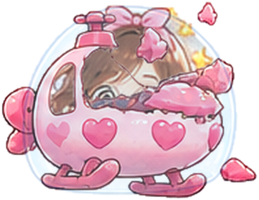
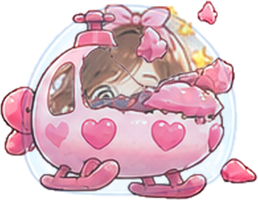
v2 캐릭터 다듬기: 만들기 팝업 선택 표시, 달리기·포즈 크기 통일, 줄타기 손 위치 맞춤, 헬기 떨림 제거

diff --git a/common/charv2.js b/common/charv2.js
@@ -16,8 +16,8 @@
   function load(look) {
     if (!LOOKS[look] || atlas[look]) return;
     const a = atlas[look] = { img: new Image(), f: null, ok: false };
-    fetch(`${base}common/chars/${look}.json?v=20261023t`).then((r) => r.json()).then((j) => {
-      a.f = j.frames; a.img.onload = () => { a.ok = true; }; a.img.src = `${base}common/chars/${look}.webp?v=20261023t`;
+    fetch(`${base}common/chars/${look}.json?v=20261023u`).then((r) => r.json()).then((j) => {
+      a.f = j.frames; a.img.onload = () => { a.ok = true; }; a.img.src = `${base}common/chars/${look}.webp?v=20261023u`;
     }).catch(() => { /* 그림이 없으면 기본 그림으로 */ });
   }
   const get = (look, name) => { const a = atlas[look]; return a && a.ok && a.f[name] ? [a, a.f[name]] : null; };
@@ -31,15 +31,17 @@
     // 발이 (0,0)에 오게 그림. h: 몸 높이(px). anchor 'hang'이면 손(줄 잡는 곳)이 hangTop에 옴
     draw(g, look, name, o = {}) {
       const hit = get(look, name); if (!hit) return false;
-      const [a, [x, y, w, h, ox, oy, cw, ch]] = hit;
+      const [a, [x, y, w, h, ox, oy, cw, ch, hand]] = hit;
       const s = (o.h || 118) / (BODY_H * ch);
+      // 매달리기: 손 x를 handX(기본 0)에 맞춰서 줄 끝과 손이 붙어 보이게
+      const dx = o.anchor === 'hang' && hand != null ? (o.handX || 0) - (hand - cw / 2) * s : 0;
       // 매달리기: 그림 맨 위(줄 잡은 손)가 hangTop에 오게
       const top = o.anchor === 'hang' ? (o.hangTop != null ? o.hangTop : -100) - oy * s : -FOOT * ch * s;
       g.save();
       if (o.alpha != null) g.globalAlpha *= o.alpha;
       if (o.rot) g.rotate(o.rot);
       if (o.flip) g.scale(-1, 1);
-      g.drawImage(a.img, x, y, w, h, -cw * s / 2 + ox * s, top + oy * s, w * s, h * s);
+      g.drawImage(a.img, x, y, w, h, dx - cw * s / 2 + ox * s, top + oy * s, w * s, h * s);
       g.restore();
       return true;
     },

diff --git a/index.html b/index.html
@@ -105,8 +105,8 @@
       <div class="looks">
         <button class="look" data-look="eunyu"><img src="skyhook/assets/eunyu_base.jpg" alt=""><span>은유 스타일</span></button>
         <button class="look" data-look="eungyeol"><img src="skyhook/assets/eungyeol_base.jpg" alt=""><span>은결 스타일</span></button>
-        <button class="look v2" data-look="eunyu2"><img src="skyhook/assets/eunyu2_base.jpg?v=20261023t" alt=""><span>은유 v2 <i class="new">NEW</i></span></button>
-        <button class="look v2" data-look="eungyeol2"><img src="skyhook/assets/eungyeol2_base.jpg?v=20261023t" alt=""><span>은결 v2 <i class="new">NEW</i></span></button>
+        <button class="look v2" data-look="eunyu2"><img src="skyhook/assets/eunyu2_base.jpg?v=20261023u" alt=""><span>은유 v2 <i class="new">NEW</i></span></button>
+        <button class="look v2" data-look="eungyeol2"><img src="skyhook/assets/eungyeol2_base.jpg?v=20261023u" alt=""><span>은결 v2 <i class="new">NEW</i></span></button>
       </div>
       <label class="name-row">이름 <input id="inName" maxlength="8" autocomplete="off" placeholder="이름 (8글자까지)"></label>
       <div class="p-note">아이템샵에서 게임 배경 스킨과 부스트를 살 수 있어요!</div>
@@ -172,7 +172,7 @@
   <div id="scrTitle" class="title-scr hidden">
     <div id="tsBg" class="ts-bg"></div>
     <img id="tsArt" class="ts-art" alt="">
-    <button id="tsBack" class="ts-back" aria-label="뒤로"><img src="hub/v3/back.png?v=20261023t" alt=""></button>
+    <button id="tsBack" class="ts-back" aria-label="뒤로"><img src="hub/v3/back.png?v=20261023u" alt=""></button>
     <button id="tsStart" class="ts-start"><span class="ts-tri"></span>START</button>
   </div>
 

diff --git a/helicopter/game.js b/helicopter/game.js
@@ -568,8 +568,10 @@ function render() {
     else if (h.hurtT > 0 && !dressed) frame = `${who}_6`;
     else frame = `${who}_${[0, 1, 2, 1][Math.floor(h.anim * 8) % 4]}`;
     if (window.CharV2 && CharV2.is(who) && CharV2.ready(who)) { // 새 캐릭터(v2): 헬기 몸체+조종사 그림
-      const n = G.state === 'crash' ? 'heli_crash' : h.hurtT > 0 ? 'heli_hurt' : `heli_${[0, 1, 2, 1][Math.floor(h.anim * 8) % 4]}`;
-      CharV2.drawCenter(ctx, who, n, hx, h.y, 205, { rot: h.rot });
+      // v2 헬기는 프레임마다 몸체 모양이 조금씩 달라서 번갈아 쓰면 덜덜 떨려 보임 → 한 장 + 살짝 둥실
+      const n = G.state === 'crash' ? 'heli_crash' : h.hurtT > 0 ? 'heli_hurt' : 'heli_1';
+      const bob = G.state === 'play' && h.hurtT <= 0 ? Math.sin(h.anim * 5) * 1.5 : 0;
+      CharV2.drawCenter(ctx, who, n, hx, h.y + bob, 205, { rot: h.rot });
     } else if (dressed) drawDressedHeli(frame, hx, h.y, 112, h.rot);
     else spr(ctx, frame, hx, h.y, 112, h.rot);
     if (G.shield) spr(ctx, 'fx_ring', hx, h.y, 130, 0, 0.6 + Math.sin(G.t * 8) * 0.2);

diff --git a/skyhook/game.js b/skyhook/game.js
@@ -652,7 +652,7 @@ function drawKidSprite(g, who, pose, t) {
   if (window.CharV2 && CharV2.is(who)) {
     const name = pose === 'run' ? `run_${Math.floor(t * 13) % 6}` : pose === 'swing' ? `swing_${Math.floor(t * 4) % 2}`
       : ({ jump: 'jump_up', fall: 'jump_down' })[pose] || pose;
-    if (CharV2.draw(g, who, CharV2.has(who, name) ? name : 'idle', { h: 118, anchor: pose === 'swing' ? 'hang' : 'feet', hangTop: -100 })) return true;
+    if (CharV2.draw(g, who, CharV2.has(who, name) ? name : 'idle', { h: 118, anchor: pose === 'swing' ? 'hang' : 'feet', hangTop: -100, handX: 3 })) return true;
   }
   // 캐릭터 꾸미기: 옷을 입었으면 옷 그림으로
   if (window.Costume && Costume.ready()) return Costume.draw(g, pose, t, { h: 118, hangTop: -100 });

diff --git a/hub/hub.css b/hub/hub.css
@@ -405,3 +405,5 @@ img[src*="costumes/"] { object-fit: cover; object-position: 50% 0; background: #
 /* 인트로 화면 뒤로 버튼: 디자이너 버튼 그림 */
 .title-scr .ts-back { width: clamp(56px, 8vh, 76px); height: auto; aspect-ratio: 192 / 188; background: none; box-shadow: none; border-radius: 50%; padding: 0; filter: drop-shadow(0 4px 8px rgba(0,0,0,.25)); }
 .title-scr .ts-back img { display: block; width: 100%; height: 100%; }
+.look.on[data-look="eunyu2"] { border-color: #FF8FB5; background: #FFF0F6; }
+.look.on[data-look="eungyeol2"] { border-color: #4FA3F0; background: #EEF6FF; }

diff --git a/skyhook/index.html b/skyhook/index.html
@@ -114,7 +114,7 @@
   <div id="rotateHint" class="hidden">가로로 돌리면 더 크게 볼 수 있어요 ↻</div>
 </div>
 <script src="../common/profile.js?v=20261023k"></script>
-<script src="../common/charv2.js?v=20261023t"></script>
+<script src="../common/charv2.js?v=20261023u"></script>
 <script src="../common/costume.js?v=20261023k"></script>
 <script src="../common/skins.js?v=20261023k"></script>
 <script src="game.js?v=20261023k"></script>

diff --git a/helicopter/index.html b/helicopter/index.html
@@ -92,7 +92,7 @@
   <div id="rotateHint" class="hidden">가로로 돌리면 더 크게 볼 수 있어요 ↻</div>
 </div>
 <script src="../common/profile.js?v=20261023k"></script>
-<script src="../common/charv2.js?v=20261023t"></script>
+<script src="../common/charv2.js?v=20261023u"></script>
 <script src="../common/costume.js?v=20261023k"></script>
 <script src="../common/skins.js?v=20261023k"></script>
 <script src="game.js?v=20261023k"></script>

diff --git a/stairs/index.html b/stairs/index.html
@@ -96,7 +96,7 @@
   <div id="rotateHint" class="hidden">📱 세로로 세워서 하면 더 크게 보여요</div>
 </div>
 <script src="../common/profile.js?v=20261023k"></script>
-<script src="../common/charv2.js?v=20261023t"></script>
+<script src="../common/charv2.js?v=20261023u"></script>
 <script src="../common/costume.js?v=20261023k"></script>
 <script src="../common/skins.js?v=20261023k"></script>
 <script src="game.js?v=20261023k"></script>

diff --git a/downhill/index.html b/downhill/index.html
@@ -88,7 +88,7 @@
   </div>
 </div>
 <script src="../common/profile.js?v=20261023k"></script>
-<script src="../common/charv2.js?v=20261023t"></script>
+<script src="../common/charv2.js?v=20261023u"></script>
 <script src="../common/costume.js?v=20261023k"></script>
 <script src="../common/skins.js?v=20261023k"></script>
 <script src="game.js?v=20261023b"></script>

diff --git a/shisen/index.html b/shisen/index.html
@@ -90,7 +90,7 @@
 </div>
 <script src="../common/profile.js?v=20261023k"></script>
 <script src="../common/skins.js?v=20261023k"></script>
-<script src="../common/charv2.js?v=20261023t"></script>
+<script src="../common/charv2.js?v=20261023u"></script>
 <script src="../common/costume.js?v=20261023k"></script>
 <script src="game.js?v=20261023k"></script>
 </body>

diff --git a/tools/build_char_v2.py b/tools/build_char_v2.py
@@ -39,22 +39,43 @@ BODY = ['idle', 'ready', 'run_0', 'run_1', 'run_2', 'run_3', 'run_4', 'run_5', '
         'swing_0', 'swing_1', 'hit', 'dizzy', 'happy', 'cheer', 'dead',
         'back_run_0', 'back_run_1', 'back_left', 'back_right', 'back_hit', 'back_happy', 'back_dead', 'back_boost']
 frames = {}  # name -> (image, scale)
-def body(p):
-    im = clean(load(p), p in STRAYS)
-    if im.width != 512: im = im.resize((512, 512), Image.LANCZOS)
-    bb = im.getchannel('A').point(lambda v: 255 if v > 20 else 0).getbbox()
-    if bb and bb[3] < 470 and not p.startswith('swing'):  # 발이 떠 있음 → 키를 맞추고 발을 488에
-        part = im.crop(bb); k = REF_H / part.height
-        part = part.resize((round(part.width * k), round(part.height * k)), Image.LANCZOS)
-        im = Image.new('RGBA', (512, 512)); cx = (bb[0] + bb[2]) // 2
-        im.alpha_composite(part, (cx - part.width // 2, 488 - part.height))
-    return im
-hs = []
+def hair_box(im):
+    """머리카락(갈색) 덩어리: 가운데 x, 맨 위 y, 높이 → 포즈마다 머리 크기를 맞추는 기준"""
+    a = np.array(im).astype(int); r, g, b_, al = a[..., 0], a[..., 1], a[..., 2], a[..., 3]
+    m = (al > 128) & (r > 70) & (r < 190) & (g > 35) & (g < 130) & (b_ < 95) & (r > g + 15) & (g > b_)
+    m = nd.binary_opening(m, iterations=2); lab, n = nd.label(m)
+    if n == 0: return None
+    sz = nd.sum(m, lab, range(1, n + 1)); ys, xs = np.where(lab == (np.argmax(sz) + 1))
+    return xs.mean(), ys.min(), ys.max() - ys.min()
+def bbox(im):
+    return im.getchannel('A').point(lambda v: 255 if v > 20 else 0).getbbox()
+def place(im, s, src, dst):
+    """src 점을 기준으로 s배 하고 그 점을 dst에 둠 (512 캔버스)"""
+    big = im.resize((round(im.width * s), round(im.height * s)), Image.LANCZOS)
+    out = Image.new('RGBA', (512, 512)); out.alpha_composite(big, (round(dst[0] - src[0] * s), round(dst[1] - src[1] * s)))
+    return out
+med = lambda v: sorted(v)[len(v) // 2]
+raw = {}
 for p in BODY:
-    bb = load(p).getchannel('A').point(lambda v: 255 if v > 20 else 0).getbbox()
-    if bb and bb[3] >= 470: hs.append(bb[3] - bb[1])
-REF_H = sorted(hs)[len(hs) // 2]
-for p in BODY: frames[p] = (body(p), 0.6)
+    im = clean(load(p), p in STRAYS)
+    raw[p] = im.resize((512, 512), Image.LANCZOS) if im.width != 512 else im
+hb = {p: hair_box(raw[p]) for p in BODY}
+RUNS = [f'run_{i}' for i in range(6)]
+ref_h = med([hb[r][2] for r in RUNS]); ref_cx = med([hb[r][0] for r in RUNS]); ref_top = med([hb[r][1] for r in RUNS])
+norm = {}
+# 1) 달리기: 프레임마다 머리 크기·좌우 위치를 같게 (크기가 들쭉날쭉하면 걸음이 어색해 보임)
+for r in RUNS:
+    im, (cx, top, h) = raw[r], hb[r]; k = ref_h / h; bb = bbox(im)
+    if bb[3] >= 470:  # 땅에 닿은 프레임: 발 위치는 그대로, 머리 가운데만 맞춤
+        norm[r] = place(im, k, (cx, bb[3]), (ref_cx, 488))
+    else:             # 떠 있는 프레임: 머리 위치를 다른 프레임에 맞춤 (발은 공중)
+        norm[r] = place(im, k, (cx, top), (ref_cx, ref_top))
+# 2) 서 있는 포즈·점프: 머리 크기를 달리기와 같게 (서 있는 포즈는 발을 488에)
+for p in ['idle', 'ready', 'happy', 'cheer', 'jump_up', 'jump_down']:
+    im, (cx, top, h) = raw[p], hb[p]; k = max(0.8, min(1.25, ref_h / h)); bb = bbox(im)
+    foot = (bb[0] + bb[2]) / 2
+    norm[p] = place(im, k, (foot, bb[3]), (256, 488 if p not in ('jump_up', 'jump_down') else bb[3]))
+for p in BODY: frames[p] = (norm.get(p, raw[p]), 0.6)
 frames['tile_face'] = (load('tile_face'), 192 / load('tile_face').width)
 for p in ['face_base', 'face_happy', 'face_sad', 'face_hurt']: frames[p] = (load(p), 256 / load(p).width)
 # 헬리콥터: 몸체 + 조종사 + 유리를 미리 합쳐 둠 (조종사는 창문 가운데)
@@ -68,15 +89,19 @@ def heli(body, pilot):
         c.alpha_composite(glass)
     else:  # 512 팩: 같은 좌표에 조종사 → 몸체 → 유리 (조종사 아래쪽이 몸체에 가려짐)
         c = Image.new('RGBA', b.size); c.alpha_composite(load(pilot)); c.alpha_composite(b); c.alpha_composite(glass)
-    # 팩마다 여백이 달라서, 헬기가 캔버스 폭의 55%가 되게 다시 맞춤 (게임에서 같은 크기로 보이게)
-    bb = c.getchannel('A').point(lambda v: 255 if v > 8 else 0).getbbox(); part = c.crop(bb)
-    cw = round(part.width / 0.55); ch = round(cw * 640 / 1024)
-    out = Image.new('RGBA', (cw, ch)); out.alpha_composite(part, ((cw - part.width) // 2, (ch - part.height) // 2))
-    return out.resize((1024, 640), Image.LANCZOS)
-for i in range(3): frames[f'heli_{i}'] = (heli(f'heli_body_{i}', 'pilot_fly'), 0.4)
-frames['heli_happy'] = (heli('heli_body_1', 'pilot_happy'), 0.4)
-frames['heli_hurt'] = (heli('heli_body_1', 'pilot_hurt'), 0.4)
-frames['heli_crash'] = (heli('heli_body_crash', 'pilot_dizzy'), 0.4)
+    return c
+HELI = {f'heli_{i}': (f'heli_body_{i}', 'pilot_fly') for i in range(3)}
+HELI.update(heli_happy=('heli_body_1', 'pilot_happy'), heli_hurt=('heli_body_1', 'pilot_hurt'), heli_crash=('heli_body_crash', 'pilot_dizzy'))
+hc = {k: heli(*v) for k, v in HELI.items()}
+# 비행 프레임(0~2)을 합친 범위로 한 번만 자리 잡기 → 모든 헬기 프레임에 똑같이 적용
+ub = None
+for k in ('heli_0', 'heli_1', 'heli_2'):
+    bb = hc[k].getchannel('A').point(lambda v: 255 if v > 8 else 0).getbbox()
+    ub = bb if ub is None else (min(ub[0], bb[0]), min(ub[1], bb[1]), max(ub[2], bb[2]), max(ub[3], bb[3]))
+bw = ub[2] - ub[0]; cw = round(bw / 0.55); ch = round(cw * 640 / 1024); cx0 = (ub[0] + ub[2]) / 2; cy0 = (ub[1] + ub[3]) / 2
+for k, c in hc.items():
+    out = Image.new('RGBA', (cw, ch)); out.alpha_composite(c, (round(cw / 2 - cx0), round(ch / 2 - cy0)))
+    frames[k] = (out.resize((1024, 640), Image.LANCZOS), 0.4)
 
 # 아틀라스로 묶기: [x, y, w, h, 잘라낸 위치 ox, oy, 원래 캔버스 cw, ch] (모두 줄인 크기 기준)
 items = []
@@ -95,6 +120,9 @@ meta = {}
 for name, im, ox, oy, cw, ch in items:
     px, py = pos[name]; atlas.alpha_composite(im, (px, py))
     meta[name] = [px, py, im.width, im.height, ox, oy, cw, ch]
+    if name.startswith('swing'):  # 맨 위 12px(손·줄)의 가운데 x (캔버스 기준)
+        al = np.array(im.getchannel('A')) > 60; ys, xs = np.where(al[:12])
+        meta[name].append(round(ox + xs.mean(), 1))
 os.makedirs(f'{ROOT}/common/chars', exist_ok=True)
 atlas.save(f'{ROOT}/common/chars/{look}.webp', quality=90, method=6)
 json.dump({'look': look, 'frames': meta}, open(f'{ROOT}/common/chars/{look}.json', 'w'), separators=(',', ':'))
@@ -111,8 +139,8 @@ for k, p in [('base', 'face_base'), ('happy', 'face_happy'), ('sad', 'face_sad')
 def trim(im, h):
     im = im.crop(im.getchannel('A').getbbox()); return im.resize((round(im.width * h / im.height), h), Image.LANCZOS)
 trim(load('face_base'), 138).save(f'{ROOT}/helicopter/assets/face_{look}.png', optimize=True)
-trim(heli('heli_body_crash', 'pilot_dizzy'), 200).save(f'{ROOT}/helicopter/assets/{look}_crash.png', optimize=True)
+trim(hc['heli_crash'], 200).save(f'{ROOT}/helicopter/assets/{look}_crash.png', optimize=True)
 for k, p in [('idle', 'idle'), ('happy', 'happy'), ('dead', 'dead')]:
-    trim(clean(load(p), p in STRAYS), 240).save(f'{ROOT}/stairs/assets/{look}_{k}.png', optimize=True)
+    trim(norm.get(p, raw[p]), 240).save(f'{ROOT}/stairs/assets/{look}_{k}.png', optimize=True)
 trim(load('front_stand'), 600 if load('front_stand').width >= 1024 else 460).save(f'{ROOT}/common/costumes/{look}_base.png', optimize=True)
 print(look, 'frames', len(meta), 'atlas', atlas.size, os.path.getsize(f'{ROOT}/common/chars/{look}.webp') // 1024, 'KB')
